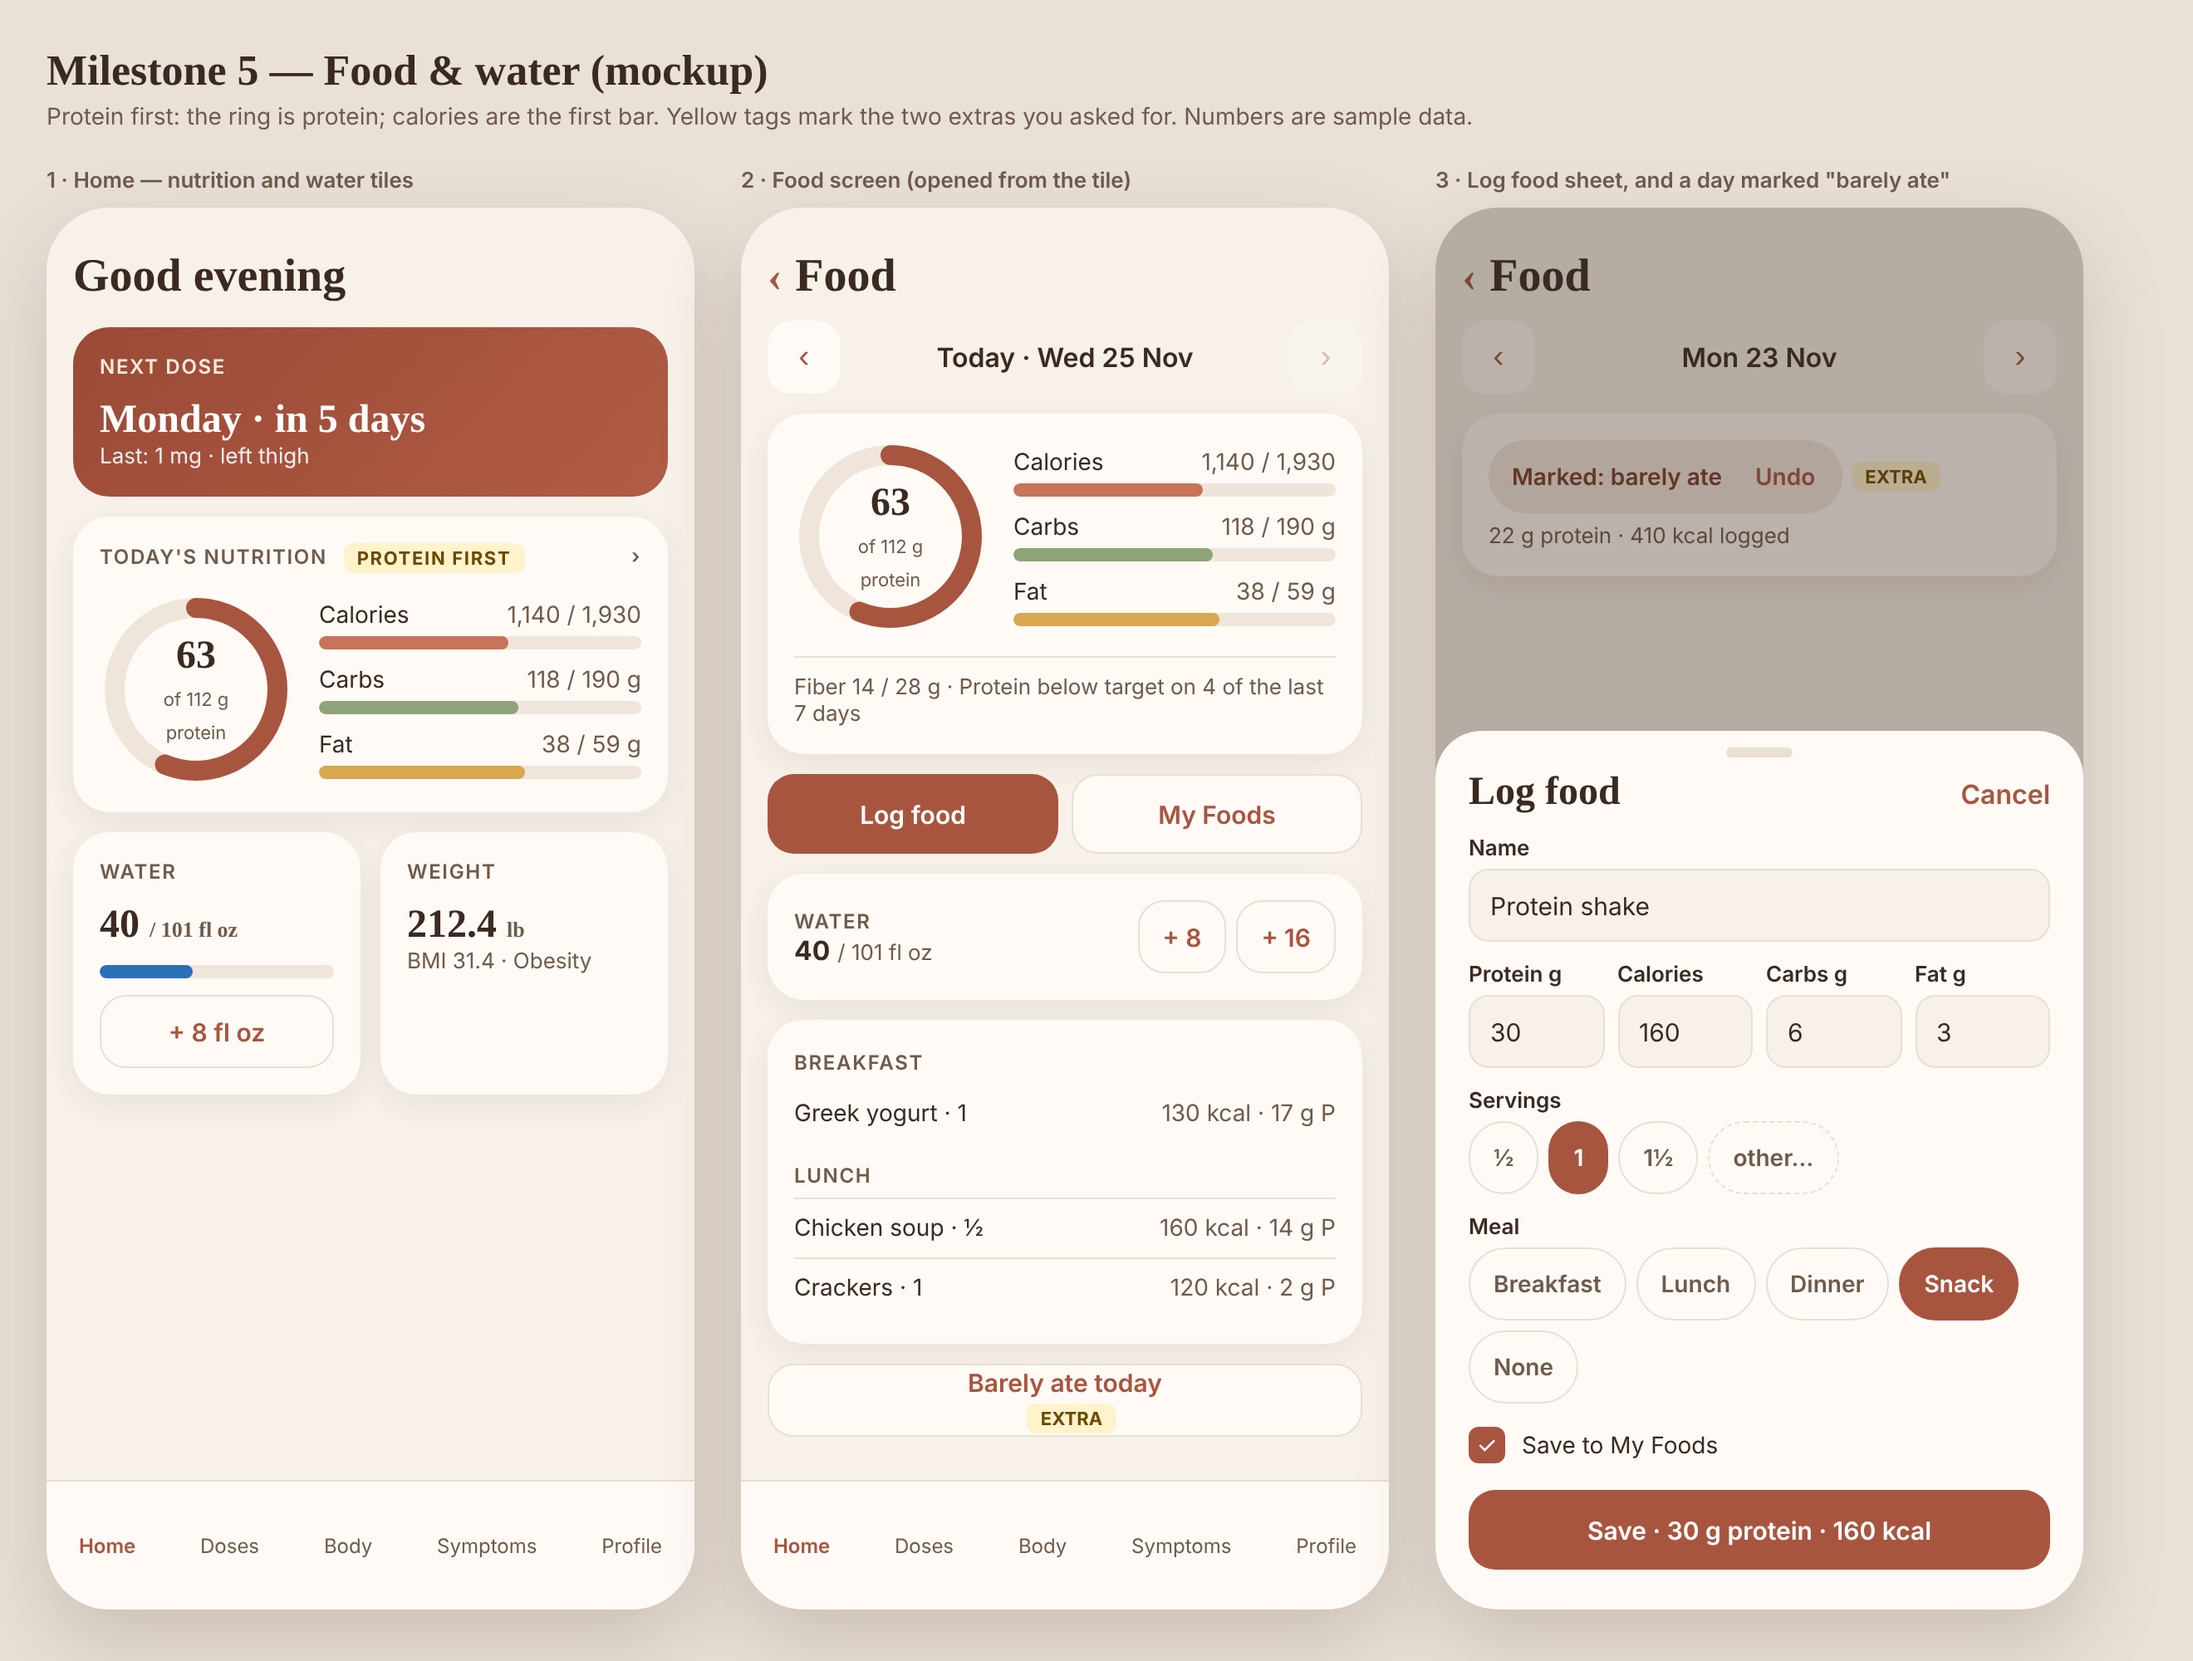
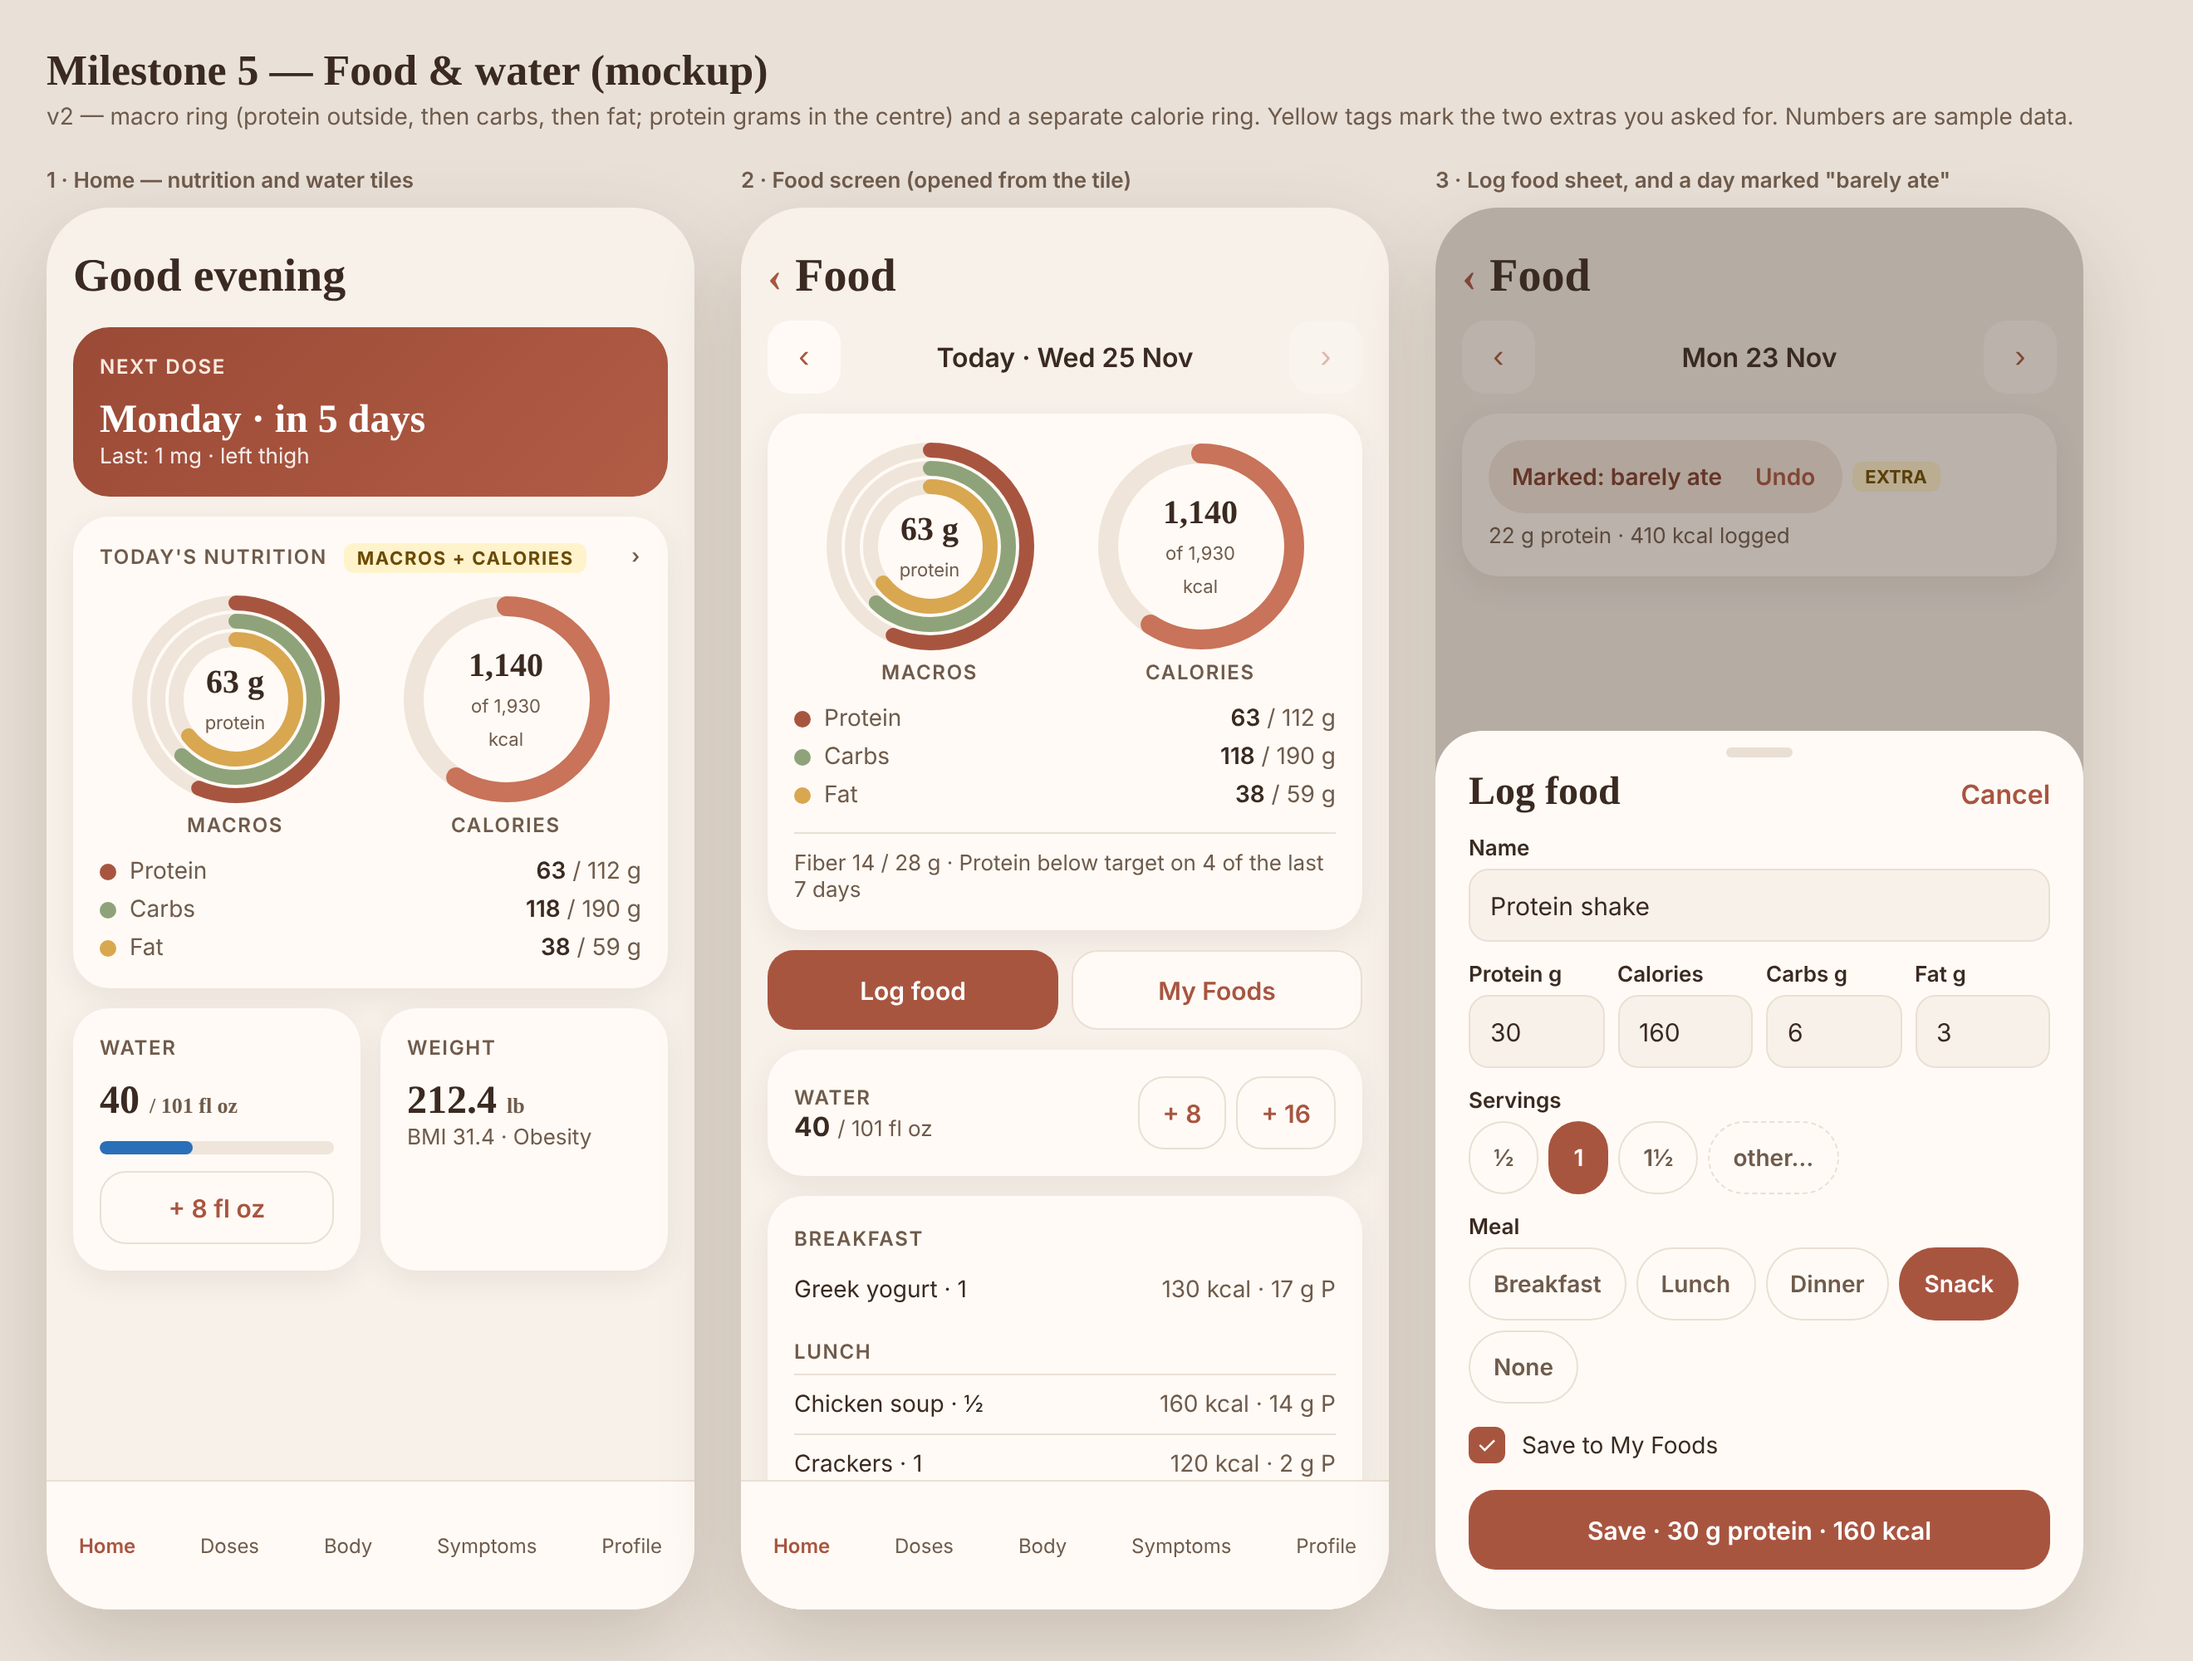
Milestone 5 mockup v2: macro ring plus calorie ring
Claude-Session: https://claude.ai/code/session_01E8m8svjFKtLT3zDarJmxVH

diff --git a/docs/mockups/05-nutrition.html b/docs/mockups/05-nutrition.html
@@ -11,7 +11,9 @@ h1.t{font-family:Georgia,serif;font-size:26px;margin:0 0 4px}.sub{color:var(--mu
 .card{background:var(--surface);border-radius:22px;padding:16px;box-shadow:0 6px 18px rgb(80 50 30/.08);margin-bottom:12px}
 .lbl{font-size:12px;font-weight:600;letter-spacing:.07em;text-transform:uppercase;color:var(--muted);margin-bottom:12px;display:flex;justify-content:space-between}
 .ringwrap{display:flex;gap:16px;align-items:center}
-.ring{position:relative;width:116px;height:116px;flex:none}.ring svg{transform:rotate(-90deg)}
+.ring{position:relative;width:116px;height:116px;flex:none}.ring svg{transform:rotate(-90deg)}.r2{width:128px;height:128px}
+.pair{display:flex;justify-content:space-around}.pc{text-align:center}.rl{font-size:12px;font-weight:600;letter-spacing:.07em;text-transform:uppercase;color:var(--muted);margin-top:4px}
+.legend{display:grid;gap:6px;margin-top:12px;font-size:14px}.legend span{display:flex;align-items:center;gap:8px;color:var(--muted)}.legend em{font-style:normal;margin-left:auto}.legend b{color:var(--ink);font-weight:600}.legend span b+*{}.legend i{width:10px;height:10px;border-radius:9px;display:inline-block}
 .ring .in{position:absolute;inset:0;display:grid;place-items:center;text-align:center}
 .ring b{font-family:"New York",Georgia,serif;font-size:24px;display:block}.ring small{font-size:11px;color:var(--muted)}
 .bars{flex:1;display:grid;gap:10px}.bar .top{display:flex;justify-content:space-between;font-size:14px;margin-bottom:4px}.bar .top span:last-child{color:var(--muted)}
@@ -41,21 +43,15 @@ h1.t{font-family:Georgia,serif;font-size:26px;margin:0 0 4px}.sub{color:var(--mu
 .tag{display:inline-block;background:#fff3cc;color:#6b4a00;font-size:11px;font-weight:700;padding:2px 8px;border-radius:6px;margin-left:6px;vertical-align:middle}
 </style></head><body>
 <h1 class="t">Milestone 5 — Food & water (mockup)</h1>
-<p class="sub">Protein first: the ring is protein; calories are the first bar. Yellow tags mark the two extras you asked for. Numbers are sample data.</p>
+<p class="sub">v2 — macro ring (protein outside, then carbs, then fat; protein grams in the centre) and a separate calorie ring. Yellow tags mark the two extras you asked for. Numbers are sample data.</p>
 <div class="row">
 
 <div><p class="cap">1 · Home — nutrition and water tiles</p>
 <div class="phone">
  <div class="serif h">Good evening</div>
  <div class="hero"><div class="lbl"><span>Next dose</span></div><div class="big">Monday · in 5 days</div><div style="font-size:13px;opacity:.9">Last: 1 mg · left thigh</div></div>
- <div class="card"><div class="lbl"><span>Today's nutrition <span class="tag">PROTEIN FIRST</span></span><span>›</span></div>
-  <div class="ringwrap">
-   <div class="ring"><svg width="116" height="116"><circle cx="58" cy="58" r="49" stroke-width="12" fill="none" stroke="#efe5da"/><circle cx="58" cy="58" r="49" stroke-width="12" fill="none" stroke="#a85540" stroke-linecap="round" stroke-dasharray="307.9" stroke-dashoffset="135"/></svg><div class="in"><div><b>63</b><small>of 112 g<br>protein</small></div></div></div>
-   <div class="bars">
-    <div class="bar"><div class="top"><span>Calories</span><span>1,140 / 1,930</span></div><div class="track"><div class="fill" style="width:59%;background:var(--clay)"></div></div></div>
-    <div class="bar"><div class="top"><span>Carbs</span><span>118 / 190 g</span></div><div class="track"><div class="fill" style="width:62%;background:var(--sage)"></div></div></div>
-    <div class="bar"><div class="top"><span>Fat</span><span>38 / 59 g</span></div><div class="track"><div class="fill" style="width:64%;background:var(--gold)"></div></div></div>
-   </div></div></div>
+ <div class="card"><div class="lbl"><span>Today's nutrition <span class="tag">MACROS + CALORIES</span></span><span>›</span></div>
+  <div class="pair"><div class="pc"><div class="ring r2"><svg width="128" height="128"><circle cx="64" cy="64" r="58" stroke-width="9" fill="none" stroke="#efe5da"/><circle cx="64" cy="64" r="58" stroke-width="9" fill="none" stroke="#a85540" stroke-linecap="round" stroke-dasharray="364.4" stroke-dashoffset="159.4"/><circle cx="64" cy="64" r="47" stroke-width="9" fill="none" stroke="#efe5da"/><circle cx="64" cy="64" r="47" stroke-width="9" fill="none" stroke="#8fa37a" stroke-linecap="round" stroke-dasharray="295.3" stroke-dashoffset="111.9"/><circle cx="64" cy="64" r="36" stroke-width="9" fill="none" stroke="#efe5da"/><circle cx="64" cy="64" r="36" stroke-width="9" fill="none" stroke="#d8a750" stroke-linecap="round" stroke-dasharray="226.2" stroke-dashoffset="80.5"/></svg><div class="in"><div><b style="font-size:20px">63 g</b><small>protein</small></div></div></div><div class="rl">Macros</div></div><div class="pc"><div class="ring r2"><svg width="128" height="128"><circle cx="64" cy="64" r="56" stroke-width="12" fill="none" stroke="#efe5da"/><circle cx="64" cy="64" r="56" stroke-width="12" fill="none" stroke="#c8735a" stroke-linecap="round" stroke-dasharray="351.9" stroke-dashoffset="144.0"/></svg><div class="in"><div><b style="font-size:20px">1,140</b><small>of 1,930<br>kcal</small></div></div></div><div class="rl">Calories</div></div></div><div class="legend"><span><i style="background:#a85540"></i>Protein<em><b>63</b> / 112 g</em></span><span><i style="background:#8fa37a"></i>Carbs<em><b>118</b> / 190 g</em></span><span><i style="background:#d8a750"></i>Fat<em><b>38</b> / 59 g</em></span></div></div>
  <div class="grid2">
   <div class="card"><div class="lbl"><span>Water</span></div><div class="big">40 <span class="small">/ 101 fl oz</span></div><div class="track" style="margin:10px 0"><div class="fill" style="width:40%;background:#2a6fb8"></div></div><div class="b q" style="height:44px">+ 8 fl oz</div></div>
   <div class="card"><div class="lbl"><span>Weight</span></div><div class="big">212.4 <span class="small">lb</span></div><div class="small">BMI 31.4 · Obesity</div></div>
@@ -68,13 +64,7 @@ h1.t{font-family:Georgia,serif;font-size:26px;margin:0 0 4px}.sub{color:var(--mu
  <div class="serif h"><span class="back">‹</span>Food</div>
  <div class="daynav"><button>‹</button><div>Today · Wed 25 Nov</div><button style="opacity:.35">›</button></div>
  <div class="card">
-  <div class="ringwrap">
-   <div class="ring"><svg width="116" height="116"><circle cx="58" cy="58" r="49" stroke-width="12" fill="none" stroke="#efe5da"/><circle cx="58" cy="58" r="49" stroke-width="12" fill="none" stroke="#a85540" stroke-linecap="round" stroke-dasharray="307.9" stroke-dashoffset="135"/></svg><div class="in"><div><b>63</b><small>of 112 g<br>protein</small></div></div></div>
-   <div class="bars">
-    <div class="bar"><div class="top"><span>Calories</span><span>1,140 / 1,930</span></div><div class="track"><div class="fill" style="width:59%;background:var(--clay)"></div></div></div>
-    <div class="bar"><div class="top"><span>Carbs</span><span>118 / 190 g</span></div><div class="track"><div class="fill" style="width:62%;background:var(--sage)"></div></div></div>
-    <div class="bar"><div class="top"><span>Fat</span><span>38 / 59 g</span></div><div class="track"><div class="fill" style="width:64%;background:var(--gold)"></div></div></div>
-   </div></div>
+  <div class="pair"><div class="pc"><div class="ring r2"><svg width="128" height="128"><circle cx="64" cy="64" r="58" stroke-width="9" fill="none" stroke="#efe5da"/><circle cx="64" cy="64" r="58" stroke-width="9" fill="none" stroke="#a85540" stroke-linecap="round" stroke-dasharray="364.4" stroke-dashoffset="159.4"/><circle cx="64" cy="64" r="47" stroke-width="9" fill="none" stroke="#efe5da"/><circle cx="64" cy="64" r="47" stroke-width="9" fill="none" stroke="#8fa37a" stroke-linecap="round" stroke-dasharray="295.3" stroke-dashoffset="111.9"/><circle cx="64" cy="64" r="36" stroke-width="9" fill="none" stroke="#efe5da"/><circle cx="64" cy="64" r="36" stroke-width="9" fill="none" stroke="#d8a750" stroke-linecap="round" stroke-dasharray="226.2" stroke-dashoffset="80.5"/></svg><div class="in"><div><b style="font-size:20px">63 g</b><small>protein</small></div></div></div><div class="rl">Macros</div></div><div class="pc"><div class="ring r2"><svg width="128" height="128"><circle cx="64" cy="64" r="56" stroke-width="12" fill="none" stroke="#efe5da"/><circle cx="64" cy="64" r="56" stroke-width="12" fill="none" stroke="#c8735a" stroke-linecap="round" stroke-dasharray="351.9" stroke-dashoffset="144.0"/></svg><div class="in"><div><b style="font-size:20px">1,140</b><small>of 1,930<br>kcal</small></div></div></div><div class="rl">Calories</div></div></div><div class="legend"><span><i style="background:#a85540"></i>Protein<em><b>63</b> / 112 g</em></span><span><i style="background:#8fa37a"></i>Carbs<em><b>118</b> / 190 g</em></span><span><i style="background:#d8a750"></i>Fat<em><b>38</b> / 59 g</em></span></div>
   <div class="note">Fiber 14 / 28 g · Protein below target on 4 of the last 7 days</div>
  </div>
  <div class="btns"><div class="b p">Log food</div><div class="b q">My Foods</div></div>

diff --git a/docs/workflows/05-nutrition.md b/docs/workflows/05-nutrition.md
@@ -78,7 +78,7 @@ By hand, one browser pass at 390px (no fake-indexeddb in the project, so the upg
   - Fiber: optional field; shown as a progress line, not a ring.
   - Delete confirmation: yes for My Foods; entries delete with an undo-free confirm like Symptoms.
 - **Owner added both extras (2026-11-25):**
-  - **Protein first:** on Home and the Food screen the ring shows protein (g of target); calories become the first bar under it, then carbs and fat. `CalorieRing` is generalised to a `Ring` with a unit label.
+  - **Protein first → two rings (owner change after mockup v1):** on Home and the Food screen, a **macro ring** of three nested arcs (protein outside, carbs, fat inside; protein grams in the centre) sits beside a separate **calorie ring**. A legend below lists protein, carbs and fat as value / target g. The MacroBars on these two views are replaced; `CalorieRing` stays for calories and a new `MacroRing` component is added.
   - **"Barely ate today":** a button on the Food screen marks the shown day as a low-intake day (new `dayMarks` table in v6: `++id, date`; cleared by reset). The day shows a calm "Marked: barely ate" chip with Undo. A marked day counts as a logged day for the protein note (with whatever was logged, often 0 g). Facts only, no advice.
 - Backup/export is not yet built and food data will accumulate; consider moving Milestone 7 up.
 - Small samples (3 logged days) can mislead; the note shows both counts.
